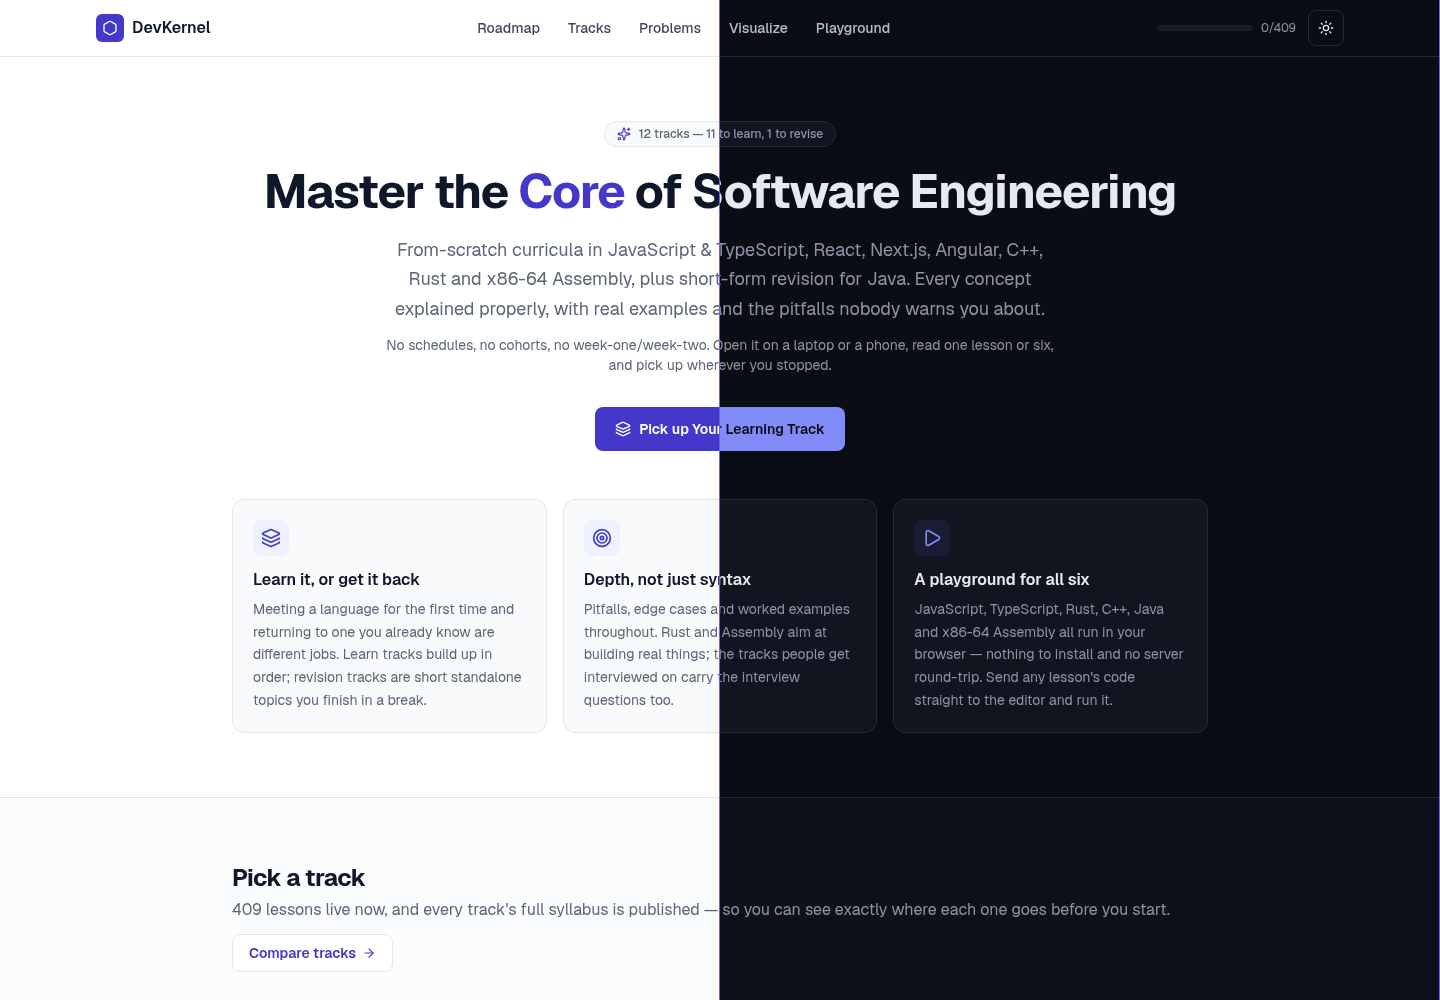
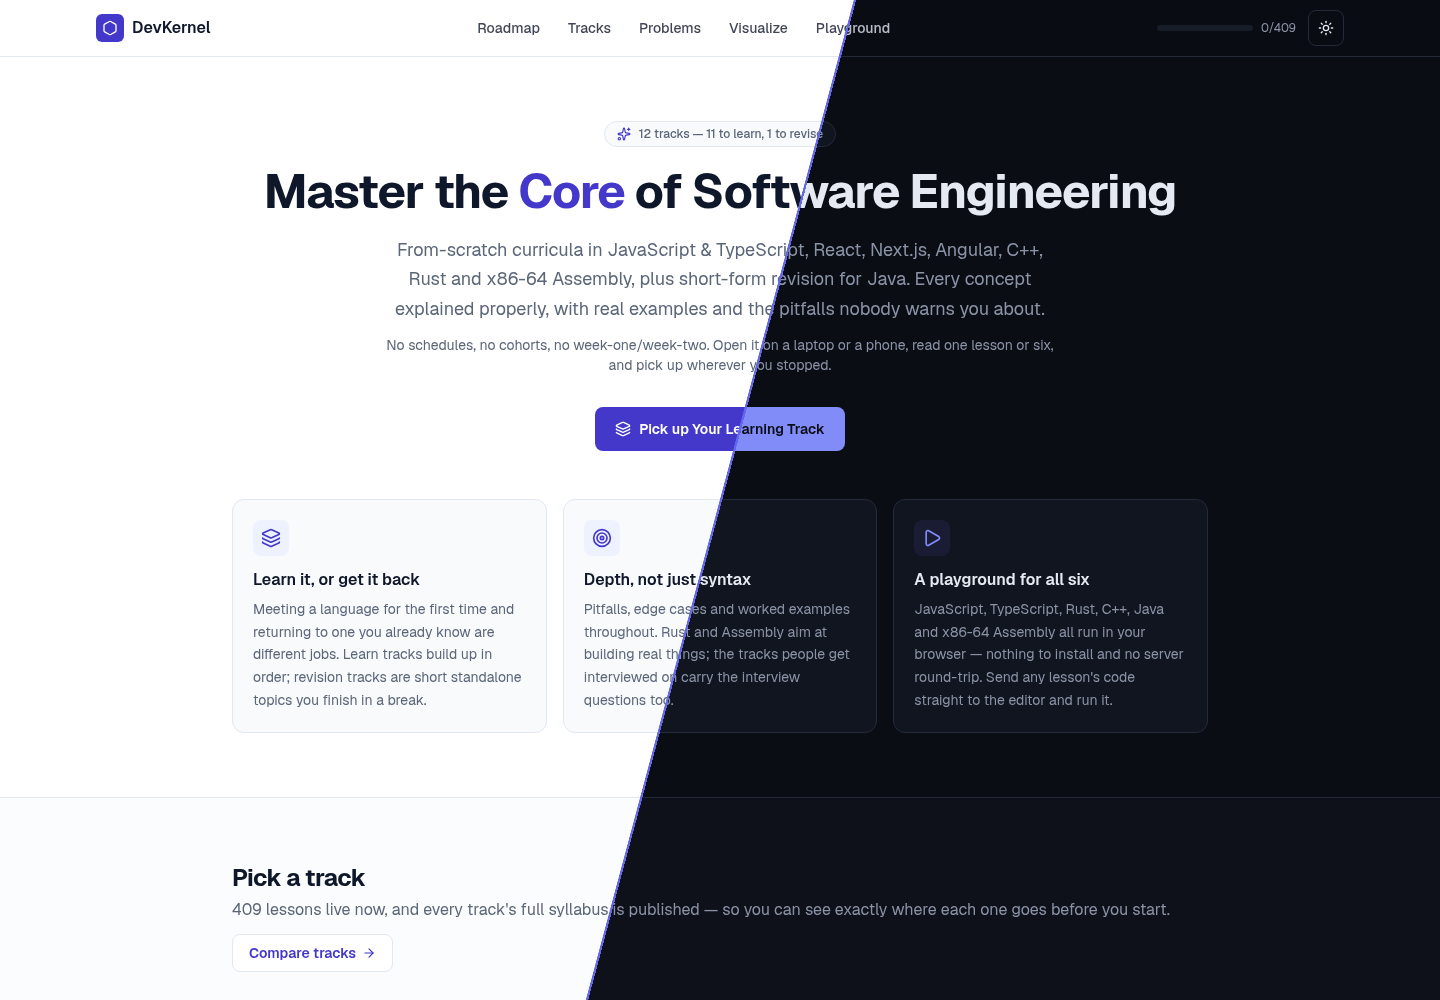
Cut the screenshots on a diagonal instead of straight down the middle
Same two captures per page — light and dark at one viewport and one
scroll offset — joined along a slanted seam rather than a vertical one.

The angle is fixed at 15 degrees off vertical rather than running corner
to corner. Corner to corner is nearly horizontal on the 1750px lesson
page and nearly vertical on the 800px gallery, so the set would not read
as one treatment; a fixed angle looks the same on all six.

The mask is drawn at 4x and resized down, because a polygon edge at 1x
stair-steps along a shallow slope.

Claude-Session: https://claude.ai/code/session_0172QEr8vkD7gQRgd9h523hm

Changed region(s): [[0.4062, 0.527, 0.5, 1.0], [0.5, 0.0, 0.5938, 0.496]]

diff --git a/README.md b/README.md
@@ -4,7 +4,7 @@
 
 ![The DevKernel home page](docs/screenshots/home.png)
 
-<sub>Every screenshot in this README is split down the middle: light theme on the left, dark theme on the right.</sub>
+<sub>Every screenshot in this README is one page cut on a diagonal: light theme on the left, dark theme on the right.</sub>
 
 ---
 
